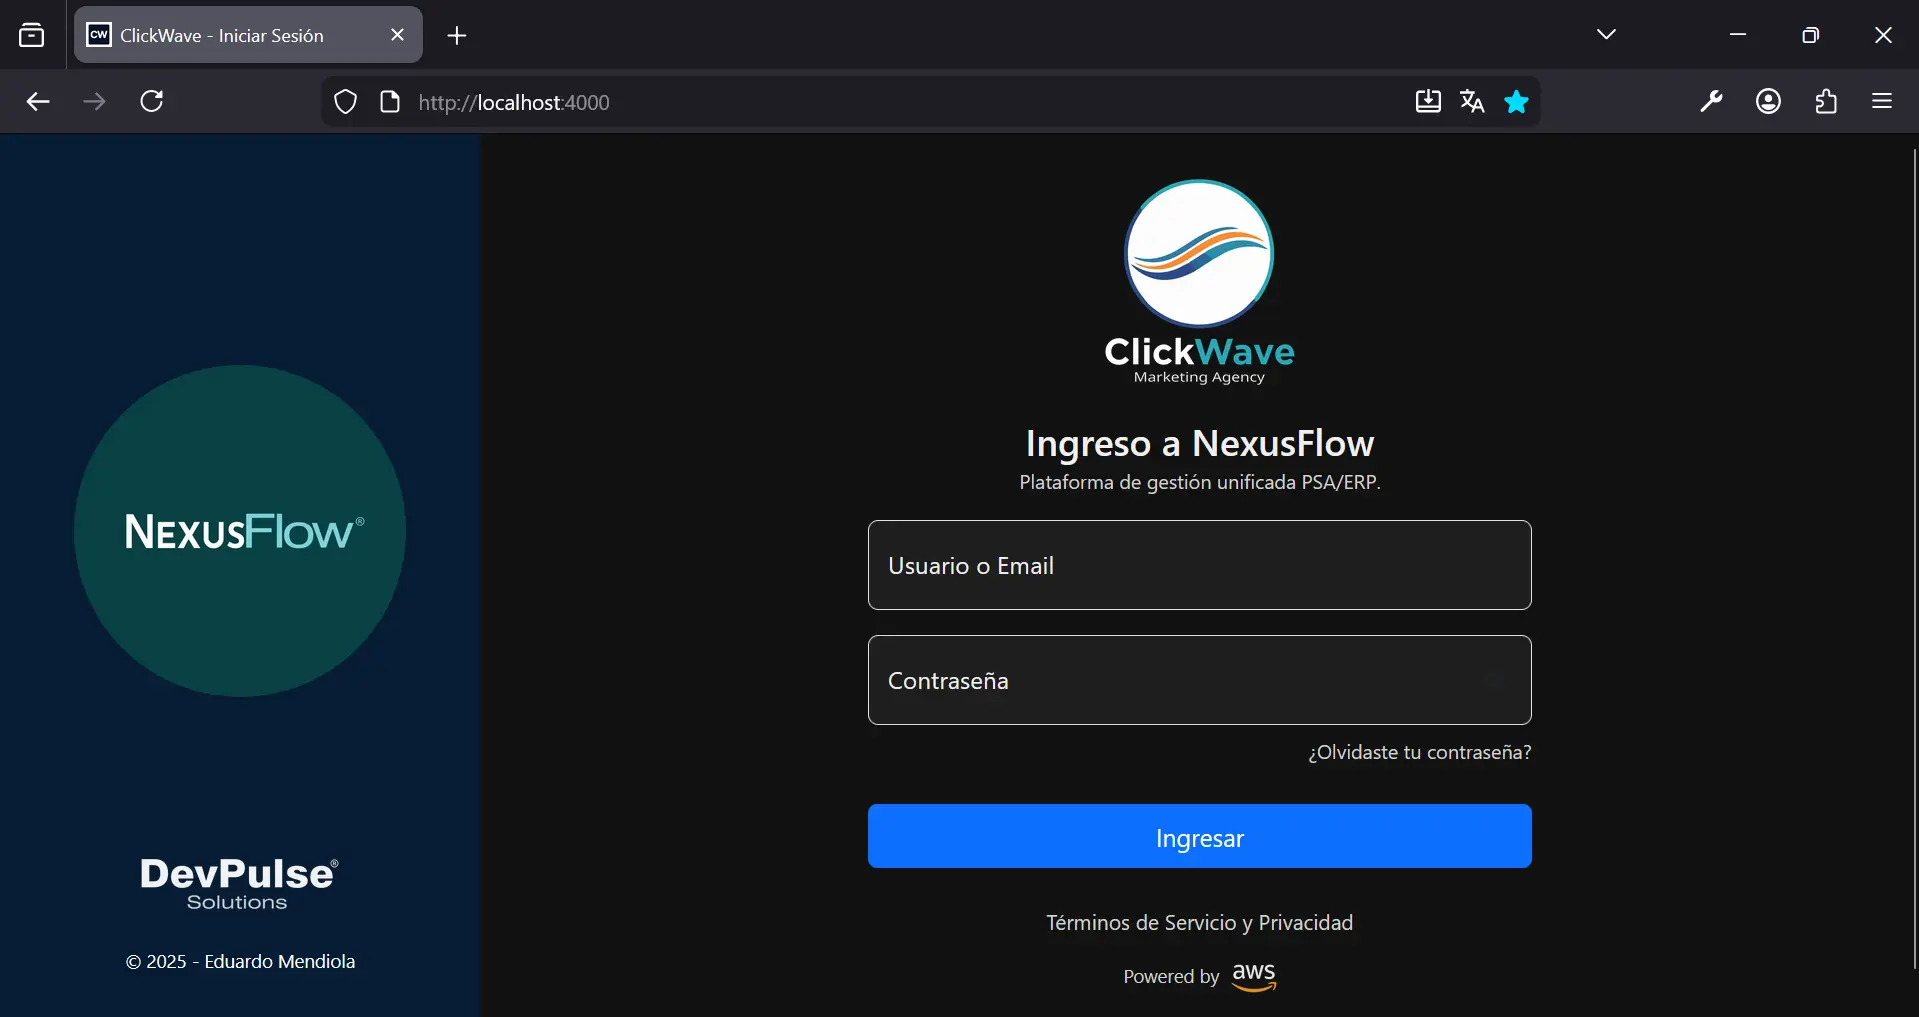
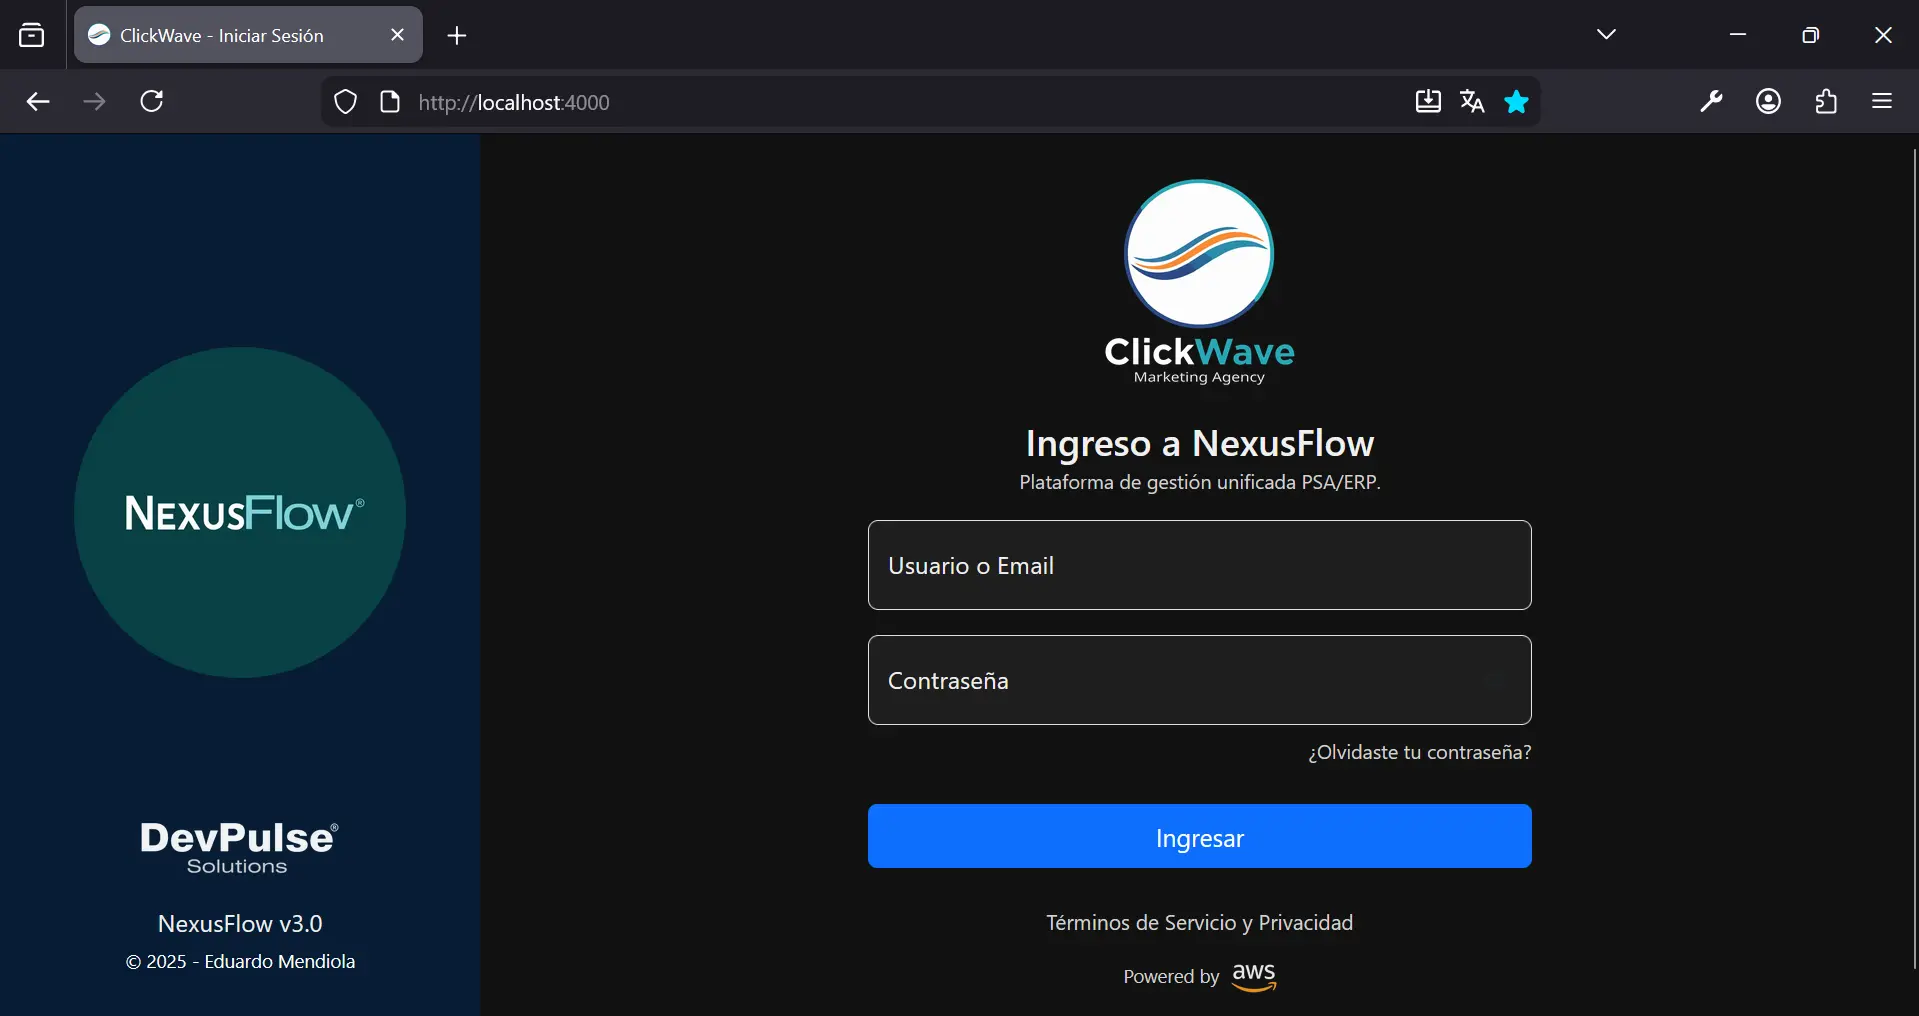
Update README

diff --git a/README.md b/README.md
@@ -1,5 +1,5 @@
 # Tecnicatura Superior en Desarrollo de Software  
-## Entrega Final de Proyecto: Sistema de Gestión Integral NexusFlow para ClickWave 
+## Entrega Final de Proyecto: Sistema de Gestión Integral NexusFlow v3.0 para ClickWave 
 ### Caso 2: ClickWave  
 
 **Materia:** Desarrollo de Sistemas Web (Back End)  
@@ -49,6 +49,7 @@
        3.5.1 [Ubicación de las Reglas de Negocio](#351-ubicación-de-las-reglas-de-negocio)  
        3.5.2 [Reglas de Negocio Clave Implementadas](#352-reglas-de-negocio-clave-implementadas)  
    3.6 [Interacción entre Módulos (usando MongoDB y Mongoose)](#36-interacción-entre-módulos-usando-mongodb-y-mongoose)  
+   3.7 [Versionado](#37-versionado)  
 
 4. [Cómo ejecutar este proyecto](#4-cómo-ejecutar-este-proyecto)  
    4.1 [Clonar el repositorio](#41-clonar-el-repositorio)  
@@ -421,6 +422,21 @@ La mayor parte de la lógica de negocio reside en los Controladores. Esta decisi
 - El modelo, definido mediante **Mongoose schemas**, se encarga de interactuar directamente con la colección de MongoDB, realizando operaciones de creación, lectura, actualización o eliminación de documentos. Mongoose maneja automáticamente la generación de IDs únicos (`_id`) y la validación de esquema.
 - El resultado de la operación se devuelve desde el modelo al controlador.
 - Finalmente, el controlador construye una respuesta HTTP (con un código de estado y datos en formato JSON) y la envía de vuelta al cliente.
+
+
+Perfecto, Ezequiel. Entonces podemos reformularlo así, usando “desarrollo del sistema” y explicando el motivo del salto entre versiones mayores:
+
+---
+
+## 3.7 Versionado
+
+El desarrollo del sistema seguirá un esquema de **versionado mayor**, reflejando cambios significativos en la funcionalidad o arquitectura del sistema. Cada versión mayor incluye nuevas características o modificaciones importantes que justifican un incremento de número completo, en lugar de versiones menores (por ejemplo, 1.1, 1.2), que se suelen reservar para ajustes o correcciones menores.
+
+* **v1.0** – CRUD básico utilizando archivos JSON como almacenamiento de datos.
+* **v2.0** – Migración a MongoDB y mejoras en la interfaz, incluyendo un sidebar más completo y funcional.
+* **v3.0** – Implementación del sistema de autenticación y autorización de usuarios.
+
+El salto de versión completa (1.0 → 2.0 → 3.0) se utiliza para reflejar que cada etapa representa un **avance importante en la arquitectura y funcionalidades**, diferenciándose claramente de simples correcciones o mejoras menores. Esto facilita el seguimiento del desarrollo y permite identificar rápidamente hitos clave en la evolución del sistema.
 
 
 ---
